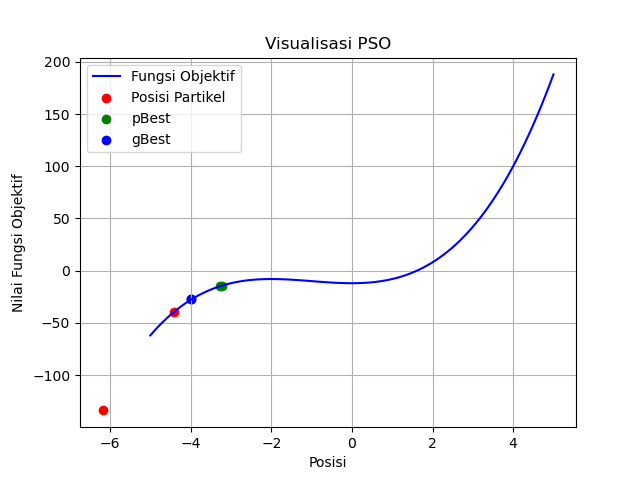
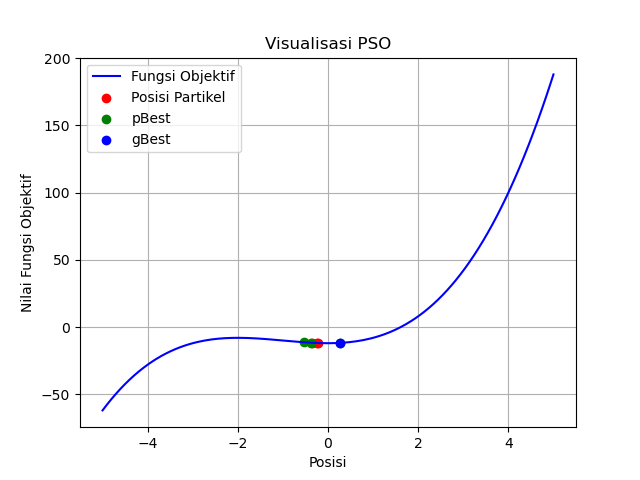
fix update random

diff --git a/PSO/fx-PSO.py b/PSO/fx-PSO.py
@@ -77,7 +77,7 @@ class fx_PSO:
 
     def plot(self):
         # Generate data for visualization
-        x_values = np.linspace(-5, 5, 100)
+        x_values = np.linspace(-5, 5, 200)
         y_values = fitness_function(x_values)
 
         # Plot the function
@@ -117,7 +117,6 @@ velocity = np.zeros(3)
 c = np.array([np.random.rand(), np.random.rand()])
 r = np.array([0.5, 0.5])
 w = 1.0
-print(particle)
 pso = fx_PSO(particle, velocity, c, r, w)
 pso.iterate(3)
 # Visualisasi
